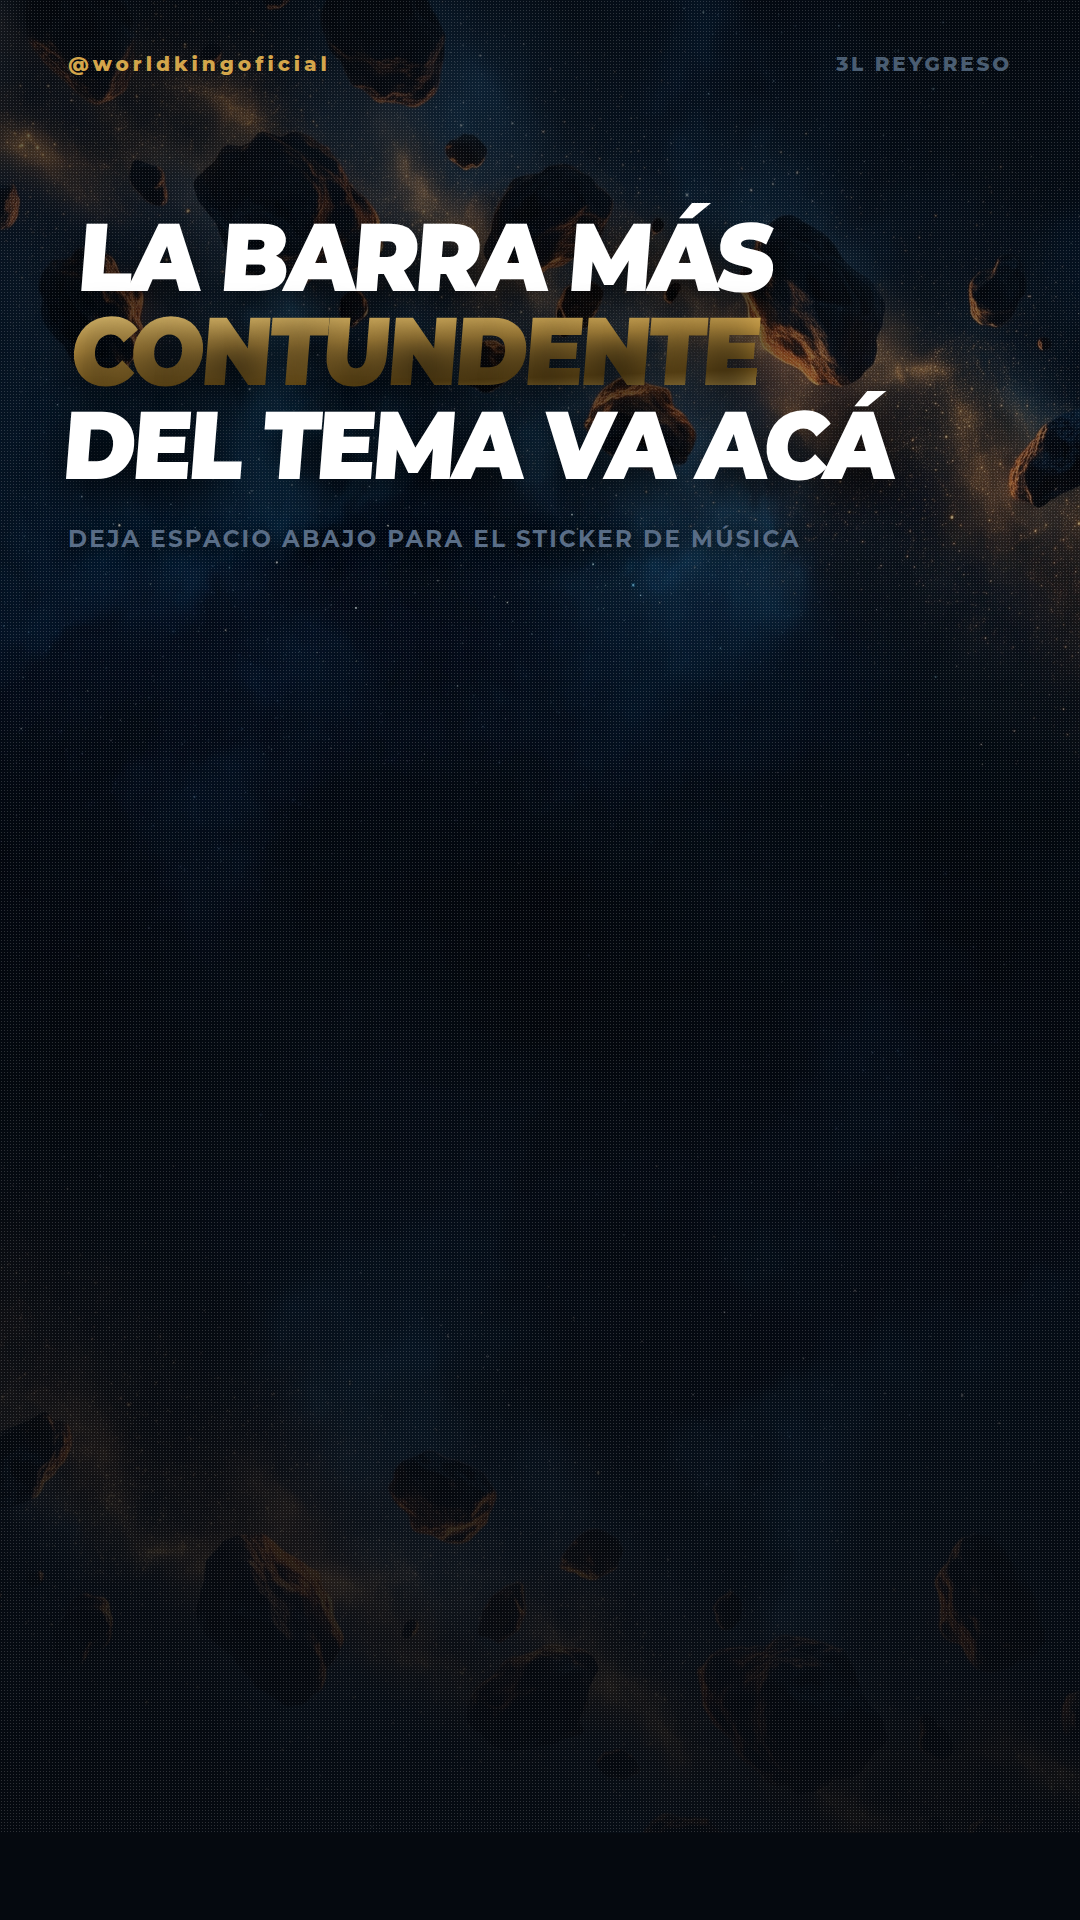
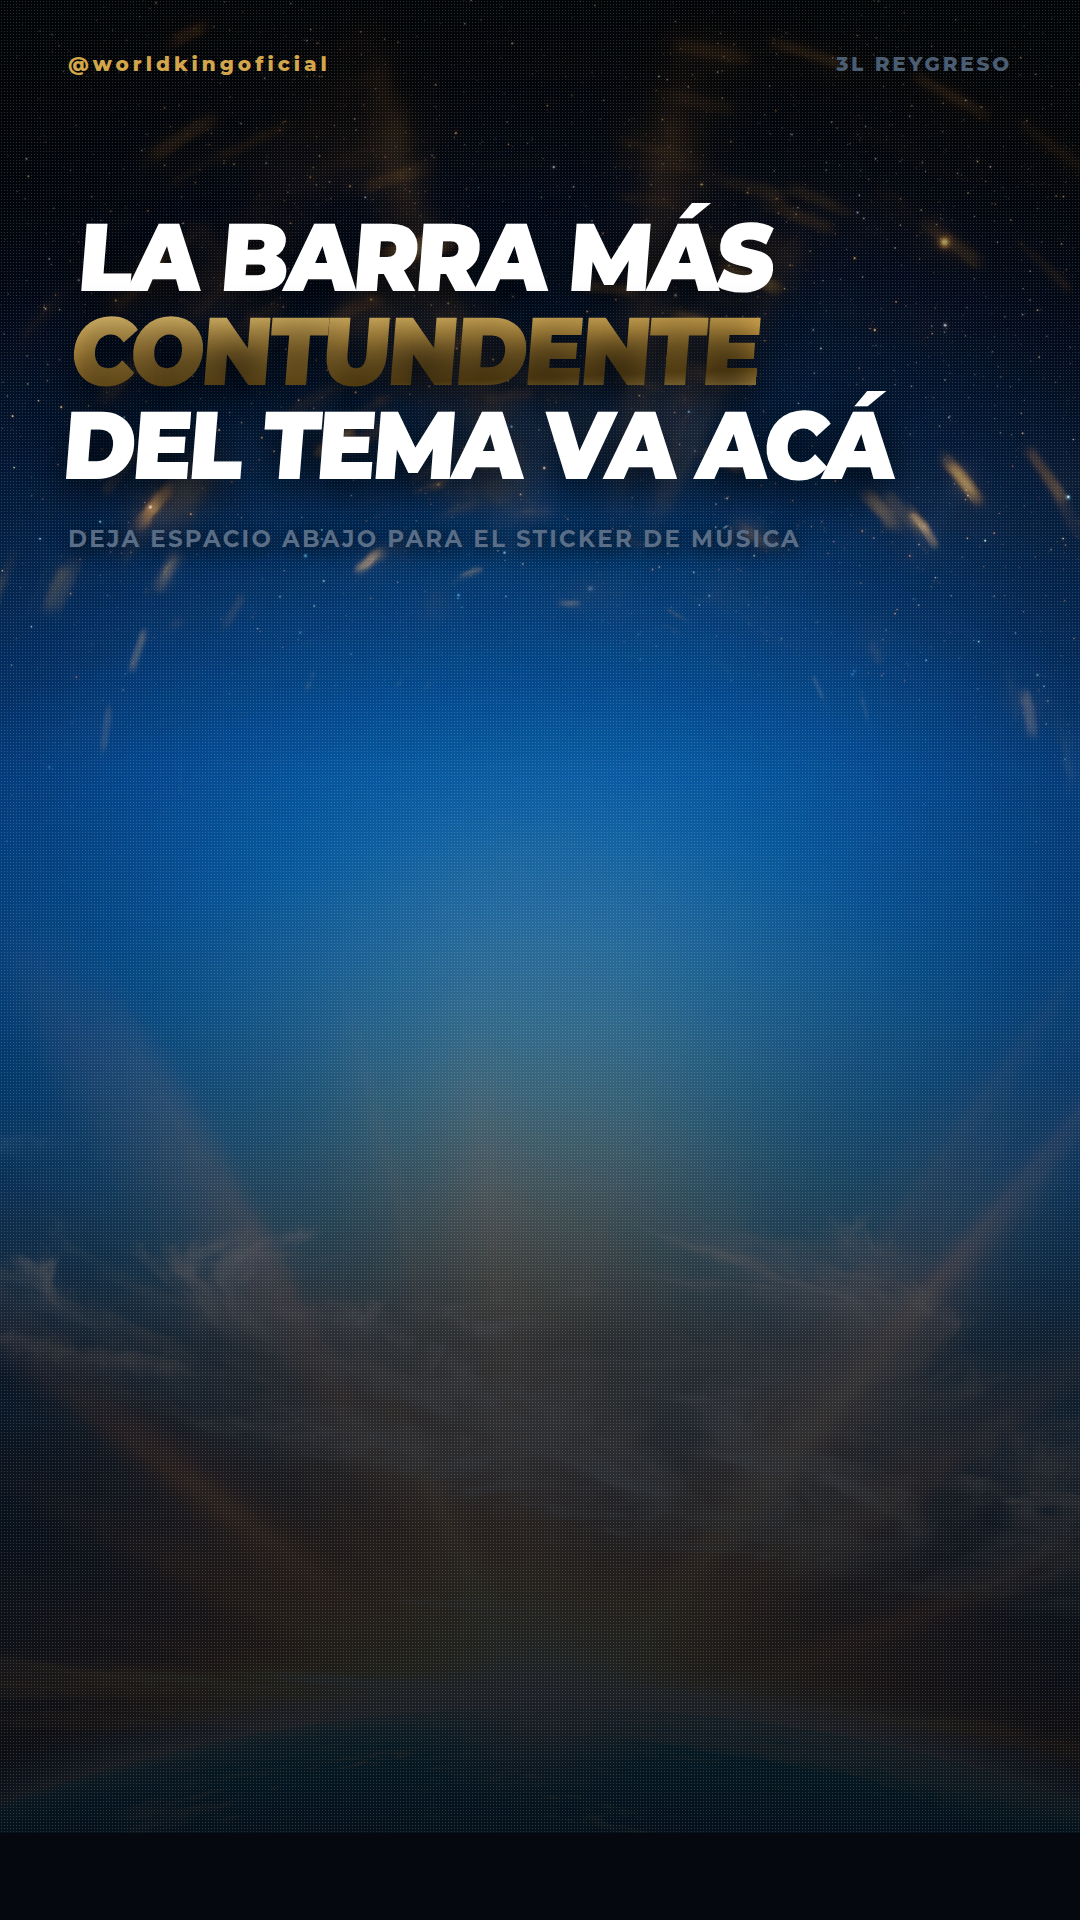
Centra las gráficas de World King en el ser de la exósfera
La versión anterior lo bajó demasiado a la calle: esquina de barrio,
parka y cadenas lo volvían uno más del lugar y borraba lo esencial, que
es que viene de afuera.

El concepto correcto es que baja desde la exósfera a traer un género
nuevo a la música urbana. La calle es su destino, no su origen. Ahora
aparece descendiendo y flotando, nunca caminando por la vereda.

El tono pasa a ser jovial y luminoso: sonríe y disfruta la bajada, con
cielo azul brillante y sol dorado en vez de noche cerrada. Las dos
versiones previas fallaban por lo mismo desde lados opuestos, una
solemne y otra cruda, y ninguna era luminosa.

Los copys hablan desde su otredad en vez de desde el barrio.

diff --git a/produccion-contenido/clientes/world-king/graficas/build.js b/produccion-contenido/clientes/world-king/graficas/build.js
@@ -54,19 +54,28 @@ const FECHA_LANZAMIENTO = 'XX.XX.2026';
 // ---------- PIEZAS ----------
 const piezas = [
   {
-    // El dato es el flex, no una fila de tabla: el número manda la composición.
-    id: 'post-03-slide-01-flex',
+    // La llegada: quién es y de dónde viene. Es la pieza que instala el concepto.
+    id: 'post-01-llegada',
     w: 1080, h: 1350,
-    tipo: 'flex',
-    imagen: 'calle-cancha-barrio.png',
-    sobre: 'FESTIVAL DE LAS CONDES',
-    cifra: '12.000',
-    unidad: 'PERSONAS',
-    titulo: 'NO ES LA<br><span class="oro">PRIMERA VEZ</span>',
-    pie: 'TELONEÓ A CARLOS VIVES · 2024',
+    tipo: 'hero',
+    imagen: 'exo-descenso.png',
+    sobre: 'TRANSMISIÓN DESDE LA EXÓSFERA',
+    titulo: 'NO SOY<br><span class="oro">DE ACÁ</span>',
+    texto: 'Bajé a traer algo que todavía no existe.',
+    pie: `${EP} · ${FECHA_LANZAMIENTO}`,
   },
   {
-    id: 'post-02-slide-02-espectro',
+    id: 'post-02-genero-nuevo',
+    w: 1080, h: 1350,
+    tipo: 'hero',
+    imagen: 'exo-ondas.png',
+    sobre: 'LO QUE TRAIGO',
+    titulo: 'UN GÉNERO<br><span class="oro">NUEVO</span>',
+    texto: 'Reguetón old school y percusión afro en vivo.<br>Nunca lo escuchaste así.',
+    pie: `${SINGLE} · YA DISPONIBLE`,
+  },
+  {
+    id: 'post-03-sonido',
     w: 1080, h: 1350,
     tipo: 'espectro',
     titulo: 'SONIDOS<br><span class="oro">TR<span class="tres">3</span>E</span><br>DIMENSIONAL',
@@ -74,35 +83,22 @@ const piezas = [
     pie: FORMATO_AUDIO,
   },
   {
-    // El barrio es código central del género urbano: va grande, no en una cajita.
-    id: 'post-02-slide-03-barrio',
+    id: 'post-04-gravedad',
     w: 1080, h: 1350,
-    tipo: 'barrio',
-    imagen: 'calle-rey-esquina.png',
-    sobre: 'DESDE',
-    titulo: BARRIO,
-    comuna: COMUNA,
-    texto: 'De acá al espacio.<br>Y de vuelta.',
-    pie: `${EP} · ${FECHA_LANZAMIENTO}`,
-  },
-  {
-    id: 'post-05-corona',
-    w: 1080, h: 1350,
-    tipo: 'barrio',
-    imagen: 'calle-cadenas-corona.png',
-    sobre: 'EL REY',
-    titulo: 'LA CORONA<br><span class="oro">NO SE<br>PRESTA</span>',
-    comuna: `${EP} · ${SINGLE} YA DISPONIBLE`,
-    texto: '',
-    pie: 'LINK EN LA BIO',
+    tipo: 'hero',
+    imagen: 'exo-gravedad-cero.png',
+    sobre: 'ALLÁ ARRIBA',
+    titulo: 'ACÁ NO<br><span class="oro">PESA NADA</span>',
+    texto: 'Ni la gravedad, ni lo que digan.',
+    pie: '@worldkingoficial',
   },
   {
     id: 'historia-01-cuenta-regresiva',
     w: 1080, h: 1920,
     tipo: 'historia',
-    imagen: 'historia-01-fondo-cuenta-regresiva.png',
-    sobre: 'SEÑAL DETECTADA',
-    titulo: 'EL REY<br><span class="oro">VUELVE</span>',
+    imagen: 'exo-llegada-cielo.png',
+    sobre: 'ENTRADA EN LA ATMÓSFERA',
+    titulo: 'YA<br><span class="oro">VOY<br>BAJANDO</span>',
     texto: EP,
     hueco: true,
     pie: 'DEJA ESPACIO ABAJO PARA EL STICKER',
@@ -111,7 +107,7 @@ const piezas = [
     id: 'historia-07-cita-musical',
     w: 1080, h: 1920,
     tipo: 'historia',
-    imagen: 'historia-07-fondo-estrellado.png',
+    imagen: 'exo-fondo-horizonte.png',
     cita: true,
     titulo: 'LA BARRA MÁS<br><span class="oro">CONTUNDENTE</span><br>DEL TEMA VA ACÁ',
     hueco: true,
@@ -122,9 +118,9 @@ const piezas = [
     w: 1080, h: 1920,
     tipo: 'alerta',
     sobre: 'ÚLTIMO AVISO',
-    titulo: 'SE<br>CORTA<br><span class="oro">LA SEÑAL</span>',
-    texto: 'Link en la bio.',
-    pie: SINGLE + ' · YA DISPONIBLE',
+    titulo: 'ME<br>DEVUELVO<br><span class="oro">ARRIBA</span>',
+    texto: 'El link está en la bio.<br>Después de esto, se corta la señal.',
+    pie: `${SINGLE} · YA DISPONIBLE`,
   },
 ];
 
@@ -139,8 +135,8 @@ const css = `
   .bg{position:absolute;inset:0;background-size:cover;background-position:center}
   /* Velo fuerte abajo: el texto va ENCIMA de la foto, no al lado. */
   .veil{position:absolute;inset:0;
-        background:linear-gradient(180deg,rgba(5,9,15,.72) 0%,rgba(5,9,15,.30) 30%,
-                   rgba(5,9,15,.72) 62%,rgba(5,9,15,.97) 100%)}
+        background:linear-gradient(180deg,rgba(5,9,15,.42) 0%,rgba(5,9,15,0) 26%,
+                   rgba(5,9,15,0) 40%,rgba(5,9,15,.80) 70%,rgba(5,9,15,.97) 100%)}
 
   /* Grano: saca el brillo digital y ensucia la imagen. */
   .grano{position:absolute;inset:-50%;opacity:.16;pointer-events:none;
@@ -152,9 +148,8 @@ const css = `
 
   /* Fondo sin foto: resplandor sucio, sin rejilla de dashboard. */
   .humo{position:absolute;inset:0;
-        background:radial-gradient(120% 70% at 50% 0%,${C.azul_led}30,transparent 60%),
-                   radial-gradient(100% 60% at 50% 105%,${C.naranja_brasa}30,transparent 62%),
-                   ${C.negro}}
+        background:radial-gradient(130% 62% at 50% 118%,${C.dorado_claro}CC,transparent 58%),
+                   linear-gradient(180deg,#0E3D6B 0%,#1E6FA8 46%,#3E9BD0 74%,#0B1B2E 100%)}
 
   /* Banda diagonal: el gesto de flyer de fiesta. */
   .banda{position:absolute;left:-14%;width:128%;height:120px;transform:rotate(-6deg);
@@ -174,7 +169,7 @@ const css = `
   .handle .r{color:#4A5D72;letter-spacing:.14em}
 
   /* Etiqueta sólida, no kicker con línea fina corporativa. */
-  .sobre{display:inline-block;align-self:flex-start;background:${C.azul_led};color:${C.negro};
+  .sobre{display:inline-block;align-self:flex-start;background:${C.dorado};color:${C.negro};
          font-size:25px;font-weight:900;letter-spacing:.16em;padding:11px 22px;
          margin-bottom:26px;text-transform:uppercase;transform:rotate(-2deg)}
   .centro .sobre{align-self:center}

diff --git a/produccion-contenido/clientes/world-king/README.md b/produccion-contenido/clientes/world-king/README.md
@@ -36,22 +36,31 @@ posicionando contra el body, Chrome headless deja sin pintar la franja inferior.
 
 ## Dirección de diseño
 
-**Género urbano con concepto espacial.** El espacio es el escenario; el código es
-de calle. Concretamente:
+**World King es un ser de la exósfera que baja a traer un género nuevo a la
+música urbana.** No pertenece a la Tierra: la calle es su destino, no su origen.
 
-- La calle es el lugar real (esquina, bodega, cables, graffiti, cancha) y el
-  planeta gigante en el cielo es lo que la vuelve épica. No al revés.
-- Tipografía **enorme**, condensada e inclinada, que sangra fuera del margen y va
-  **encima** de la foto, nunca al lado.
-- El **oro metálico con degradado** es el código del género — cadenas, corona.
-  Nada de amarillo plano.
-- El **dato es un flex**: la cifra manda la composición, no es una fila de tabla.
-- Grano, barrido de tubo y bandas diagonales tipo flyer de fiesta.
-- El **barrio va grande**: "CERRO 18 SUR" es titular, no un dato en una cajita.
+- Aparece **descendiendo, flotando o suspendido**. Casi nunca con los pies en el
+  suelo: si camina por la calle como uno más, se pierde el concepto.
+- El tono es **jovial y juvenil**. Sonríe, disfruta la bajada, llega con buena
+  onda. No es un rey solemne ni un tipo duro.
+- Las piezas son **luminosas**: cielo azul brillante, sol dorado, blanco. No
+  nocturnas y oscuras.
+- Vestuario: **streetwear futurista luminoso** blanco y azul con ribetes dorados,
+  más la corona de naves con LED. Ropa que no es de la Tierra pero se lee urbana.
+- Los copys hablan **desde su otredad**: "No soy de acá", "Bajé a traer algo que
+  todavía no existe", "Ya voy bajando".
+- Tipografía enorme e inclinada sobre una base sólida abajo, con el oro metálico
+  como acento. El texto vive en la parte inferior para no tapar la figura.
 
-Lo que se evitó a propósito, porque hacía ver la marca como una empresa de
-tecnología: rejilla de fondo tipo dashboard, kickers con línea fina, tablas de
-datos ordenadas, mucho aire y copys de ficha técnica.
+Tres direcciones que se probaron y se descartaron, y por qué:
+
+| Intento | Por qué no |
+|---|---|
+| Astronauta techwear violeta/cian | La paleta era inventada; la real es azul, dorado y naranja |
+| Rey espacial épico tipo Dune | Solemne y oscuro: perdía lo jovial y lo juvenil |
+| Esquina de barrio con parka y cadenas | Demasiado terrenal: lo volvía uno más de la calle y borraba que viene de afuera |
+
+El barrio (Cerro 18) es dato biográfico de color, **nunca** el titular.
 
 ## Nota de render
 
